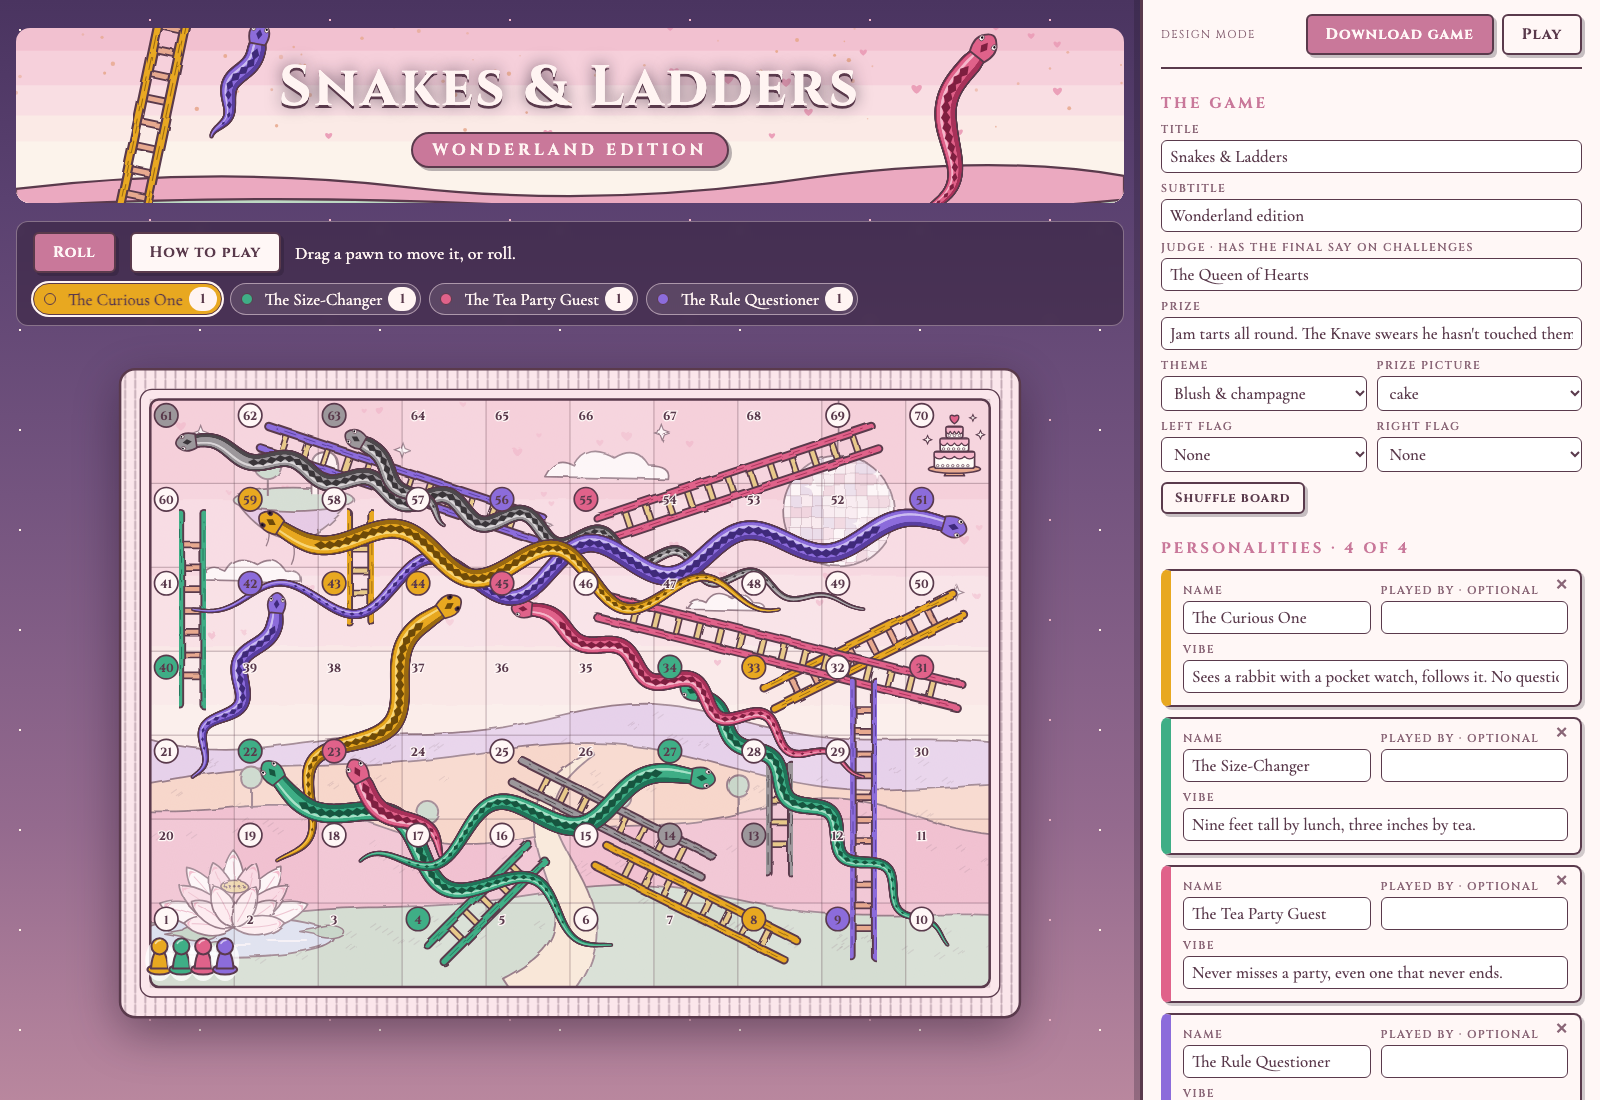
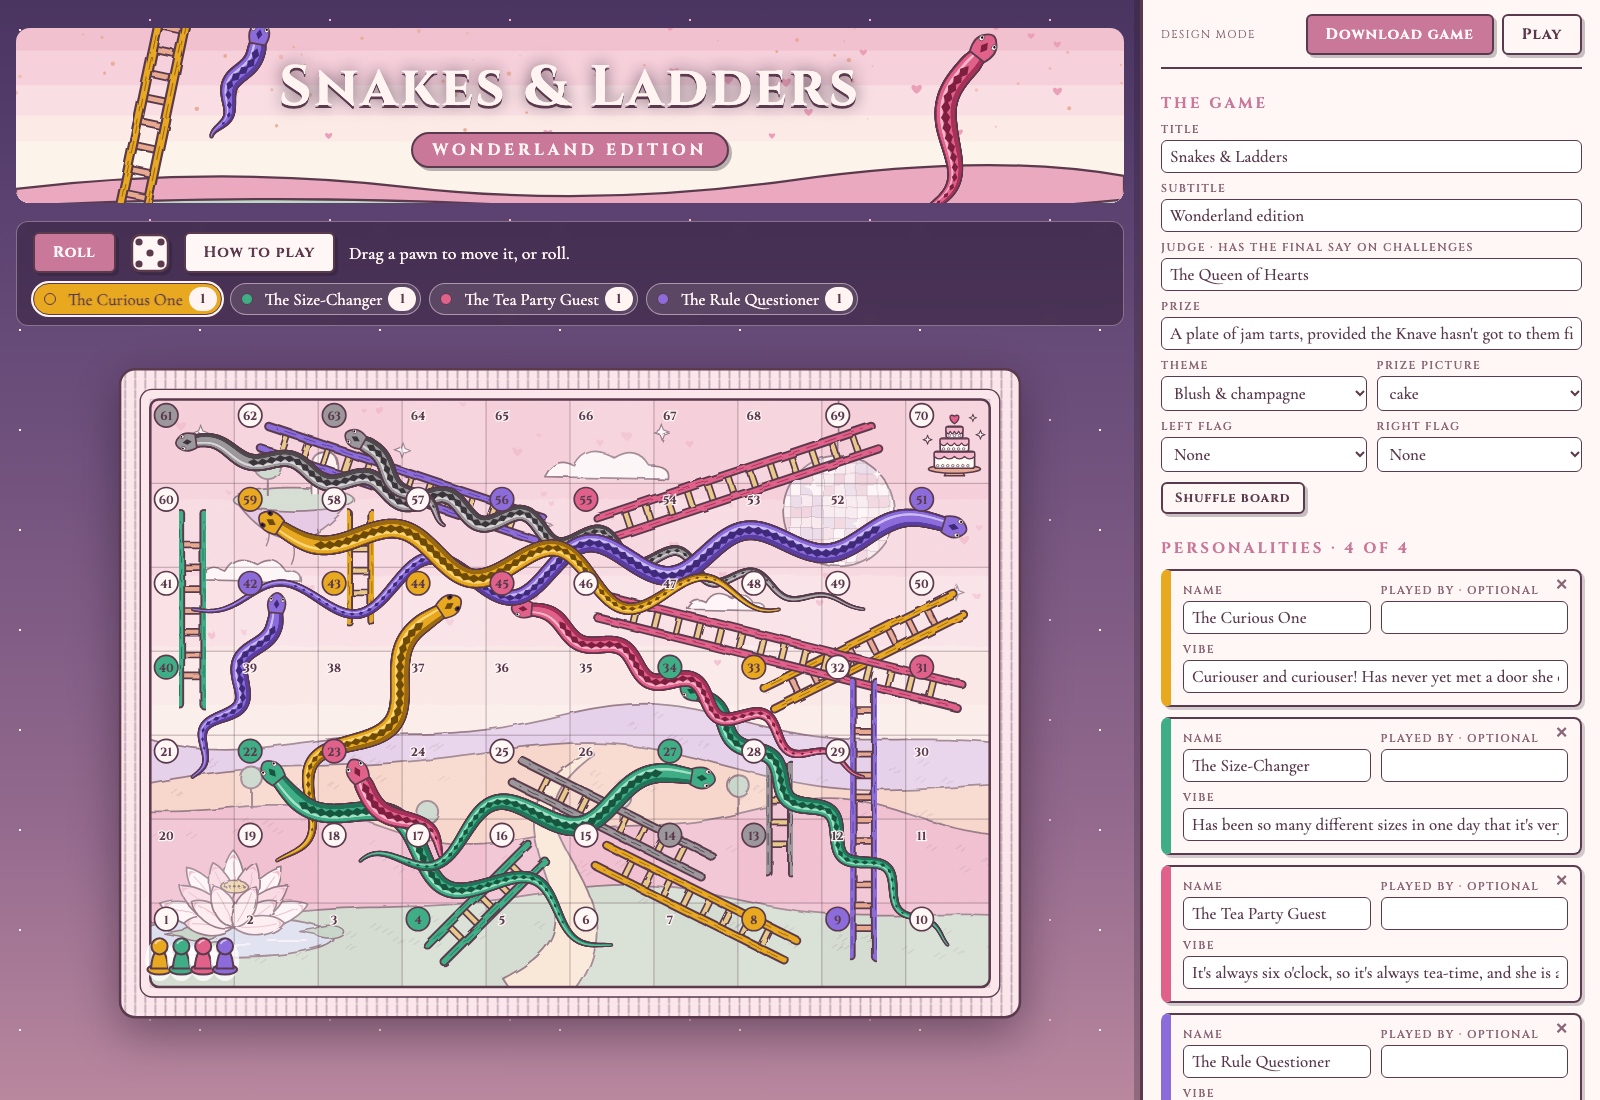
README intro edits; refresh screenshot

diff --git a/README.md b/README.md
@@ -1,8 +1,10 @@
 # Snakes & Ladders, about your friend
 
-A snakes and ladders board made out of someone's life: every ladder is a win from their year, every snake a funny setback with an escape challenge. Made for birthdays, hen dos, farewells, anniversaries.
+A customisable snakes and ladders board: every ladder is a win from their life, every snake a funny setback with an escape challenge. Made for birthdays, hen dos, farewells, anniversaries.
 
 The board, snakes, ladders and scenery are drawn from your text, so every game looks different. The whole game is **one HTML file**: no install, no account, works offline, prints well.
+
+It was made with Claude coding as a fun side project for a friend. Corrections and comments are welcome!
 
 ![Design mode: the board on the left, the form on the right](docs/design-mode.png)
 
